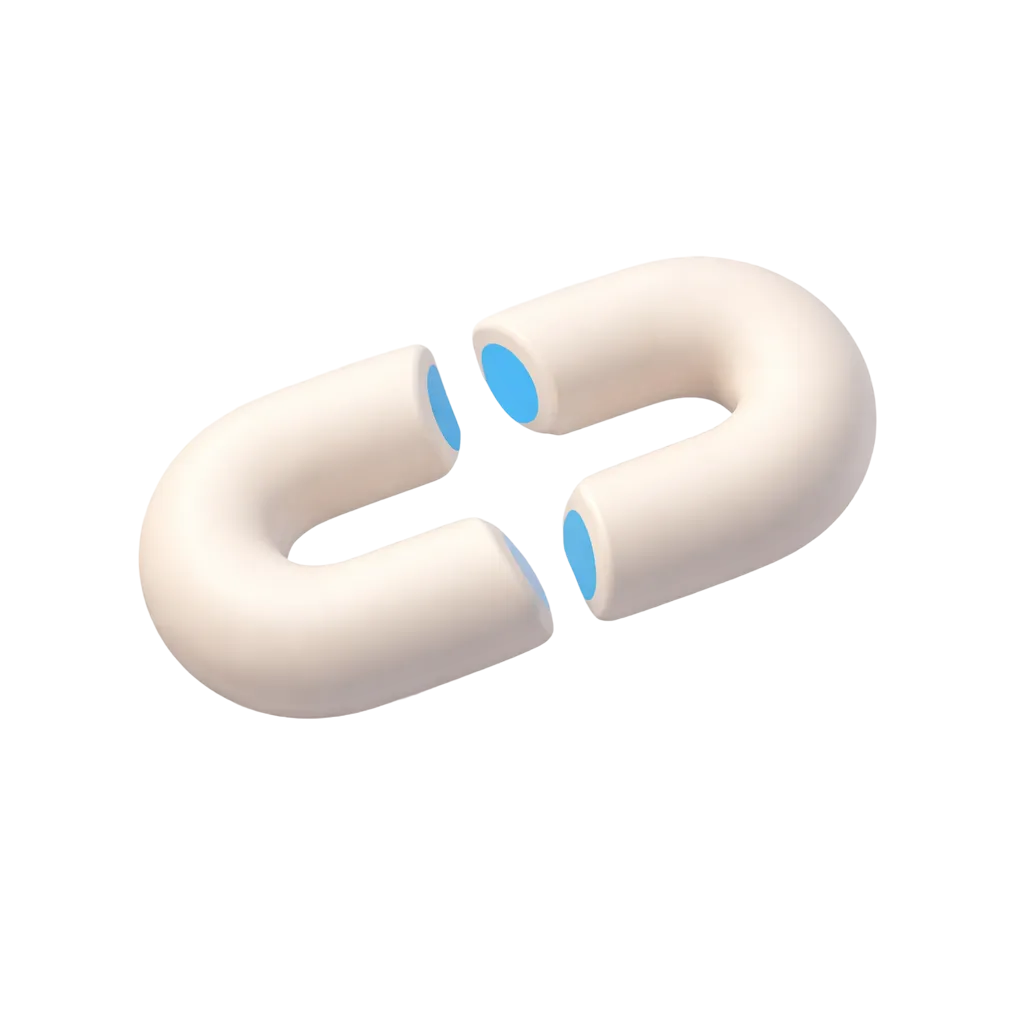
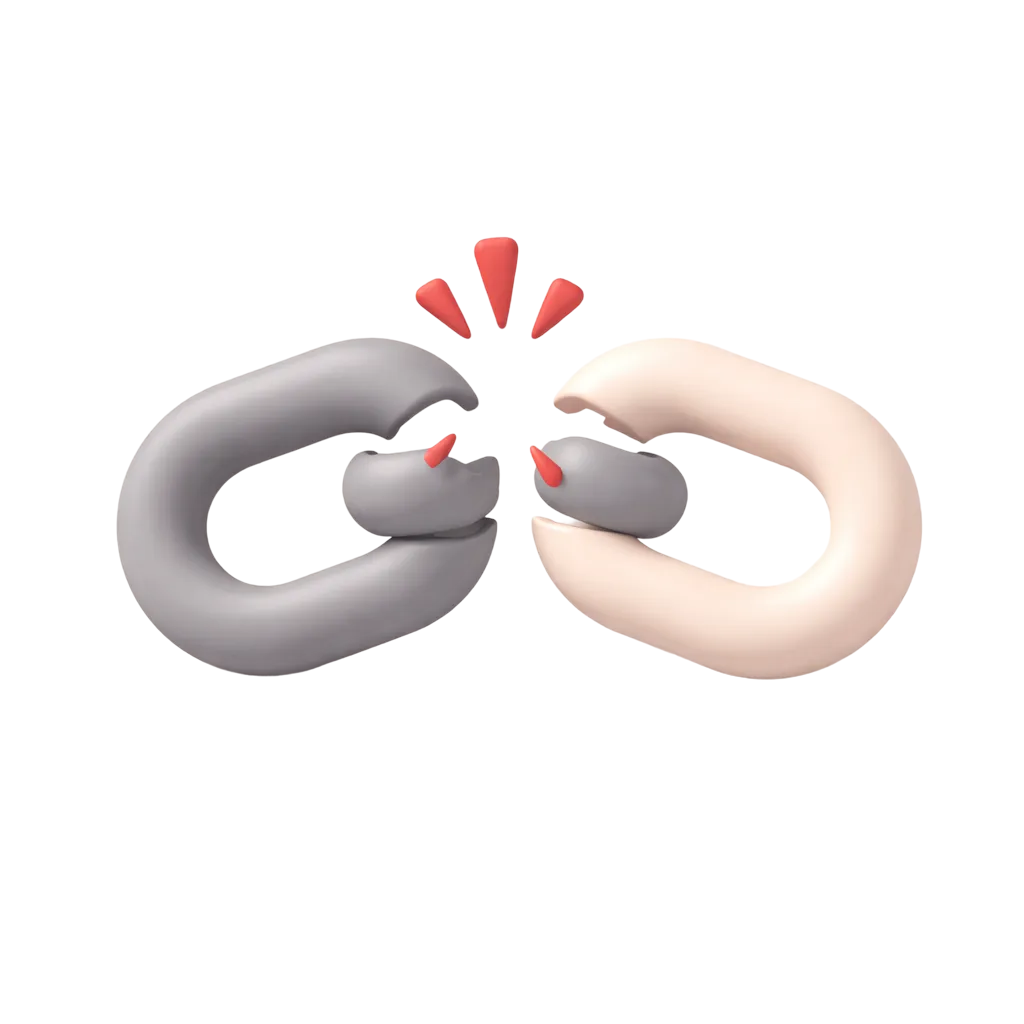
Update error messages and colors per Figma design (v1.0.3)
CHANGES:
- New error UI with two distinct designs:
  * Spotify rate limit: "Spotify Needs a Break!" (no CTA button)
  * Generic error: "Well This is Awkward!" (with "Try Again" button)
- Custom error illustrations instead of SVG warning icon
- Updated color #757575 → #5c5c5c throughout website
- New broken link icon in recommendation not found page

FILES MODIFIED:
- app/page.tsx: New conditional error UI component
- app/recommendations/[id]/page.tsx: Color update
- components/ImageUploader.tsx: Color update
- public/camera-icon.svg: Color update
- public/broken-link.png: New illustration
- public/error-spotify.png: New illustration
- public/error-generic.png: New illustration

IMPACT:
- Better visual design with personality
- Clear distinction between waiting vs. retrying errors
- Improved color consistency and readability

Changed region(s): [[0.0938, 0.2188, 0.9062, 0.7188]]

diff --git a/Works/songs-that-feel-like-this/app/page.tsx b/Works/songs-that-feel-like-this/app/page.tsx
@@ -109,7 +109,7 @@ export default function Home() {
             <br />
             <span className="italic text-[#8b4513]">Feel Like This</span>
           </h1>
-          <p className="font-[family-name:var(--font-sans)] text-sm font-normal text-[#757575] tracking-[0.025px]">
+          <p className="font-[family-name:var(--font-sans)] text-sm font-normal text-[#5c5c5c] tracking-[0.025px]">
             Every photo has a soundtrack
           </p>
         </header>
@@ -131,42 +131,54 @@ export default function Home() {
         )}
 
         {/* Error Display - shown below polaroid or in main area */}
-        {error && (
-          <div className="mt-8 w-full max-w-md">
-            <div className="bg-red-50 border border-red-200 rounded-lg p-6">
-              <div className="flex items-start gap-3">
-                <svg
-                  className="w-6 h-6 text-red-600 flex-shrink-0 mt-0.5"
-                  fill="none"
-                  stroke="currentColor"
-                  viewBox="0 0 24 24"
-                >
-                  <path
-                    strokeLinecap="round"
-                    strokeLinejoin="round"
-                    strokeWidth={2}
-                    d="M12 8v4m0 4h.01M21 12a9 9 0 11-18 0 9 9 0 0118 0z"
+        {error && (() => {
+          // Detect if it's a Spotify rate limit error
+          const isSpotifyRateLimit = error?.toLowerCase().includes('spotify') &&
+                                     (error?.toLowerCase().includes('rate limit') ||
+                                      error?.toLowerCase().includes('needs a break'));
+
+          return (
+            <div className="mt-8 w-full max-w-[328px]">
+              <div className="bg-white border border-gray-200 rounded-3xl p-6">
+                <div className="flex items-start gap-2">
+                  {/* 90x90 Error Icon */}
+                  <img
+                    src={isSpotifyRateLimit ? "/error-spotify.png" : "/error-generic.png"}
+                    alt="Error icon"
+                    className="w-[90px] h-[90px] rounded-lg flex-shrink-0"
                   />
-                </svg>
-                <div className="flex-1">
-                  <h3 className="text-sm font-medium text-red-800">
-                    Something went wrong
-                  </h3>
-                  <p className="mt-1 text-sm text-red-700">{error}</p>
-                  <button
-                    onClick={() => {
-                      setError(null);
-                      setUploadedImage(null); // Reset to allow new upload
-                    }}
-                    className="mt-3 text-sm font-medium text-red-600 hover:text-red-500"
-                  >
-                    Try again with a new image
-                  </button>
+
+                  <div className="flex-1 flex flex-col gap-2">
+                    {/* Title */}
+                    <h3 className="font-[family-name:var(--font-serif)] font-bold text-[20px] text-[#8b0000] leading-tight">
+                      {isSpotifyRateLimit ? "Spotify Needs a Break!" : "Well This is Awkward!"}
+                    </h3>
+
+                    {/* Message */}
+                    <p className="font-[family-name:var(--font-sans)] text-[14px] text-[#5c5c5c] leading-[1.4]">
+                      {isSpotifyRateLimit
+                        ? error.replace('Spotify rate limit reached. Please try again in', 'Too many requests right now. Please try again in')
+                        : "Something broke. We're pretending it's fine."}
+                    </p>
+
+                    {/* CTA Button (only for generic errors) */}
+                    {!isSpotifyRateLimit && (
+                      <button
+                        onClick={() => {
+                          setError(null);
+                          setUploadedImage(null);
+                        }}
+                        className="mt-2 font-[family-name:var(--font-sans)] font-bold text-[14px] text-[#8b0000] hover:text-[#6d0000] text-left"
+                      >
+                        Try Again
+                      </button>
+                    )}
+                  </div>
                 </div>
               </div>
             </div>
-          </div>
-        )}
+          );
+        })()}
       </div>
 
       {/* Footer */}

diff --git a/Works/songs-that-feel-like-this/app/recommendations/[id]/page.tsx b/Works/songs-that-feel-like-this/app/recommendations/[id]/page.tsx
@@ -98,7 +98,7 @@ export default function RecommendationPage({
                     <h2 className="font-[family-name:var(--font-serif)] font-bold text-2xl text-[#212121] leading-tight whitespace-pre-wrap">
                       {'Oops!!\nRecommendation not found.'}
                     </h2>
-                    <p className="font-[family-name:var(--font-sans)] text-base text-[#757575] leading-[1.4]">
+                    <p className="font-[family-name:var(--font-sans)] text-base text-[#5c5c5c] leading-[1.4]">
                       This recommendation may have been deleted or the link might be invalid.
                     </p>
                   </div>

diff --git a/Works/songs-that-feel-like-this/components/ImageUploader.tsx b/Works/songs-that-feel-like-this/components/ImageUploader.tsx
@@ -149,7 +149,7 @@ export default function ImageUploader({ onUpload, disabled }: ImageUploaderProps
                       </div>
 
                       {/* File requirements */}
-                      <p className="font-[family-name:var(--font-sans)] text-[14px] text-[#757575] tracking-wide mt-1">
+                      <p className="font-[family-name:var(--font-sans)] text-[14px] text-[#5c5c5c] tracking-wide mt-1">
                         JPG, PNG • Max 5MB
                       </p>
                     </div>
